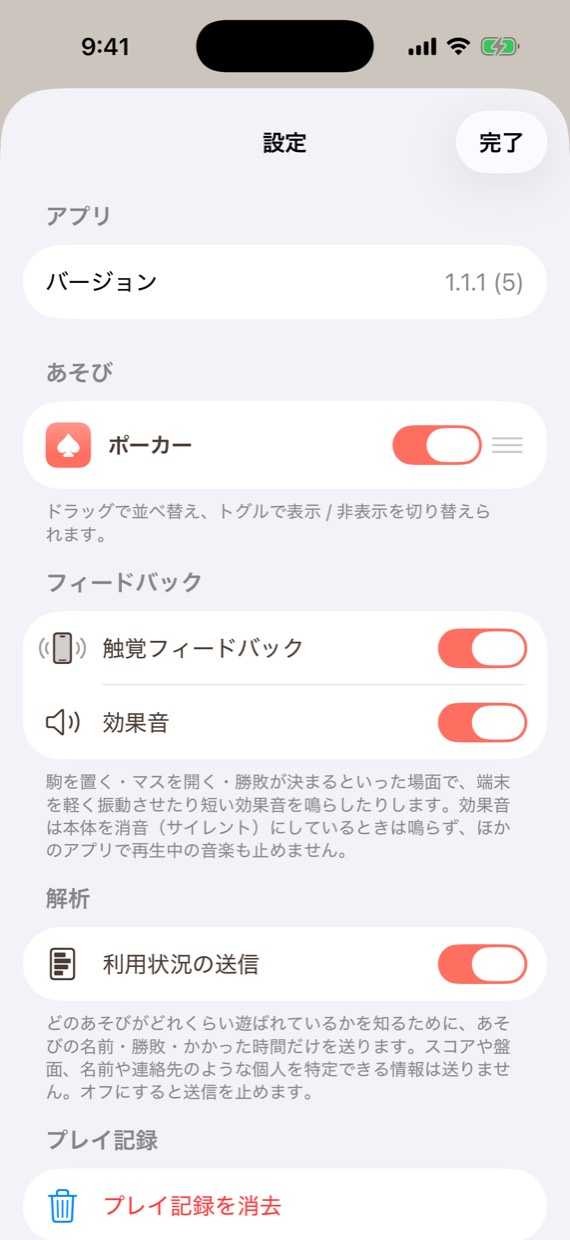
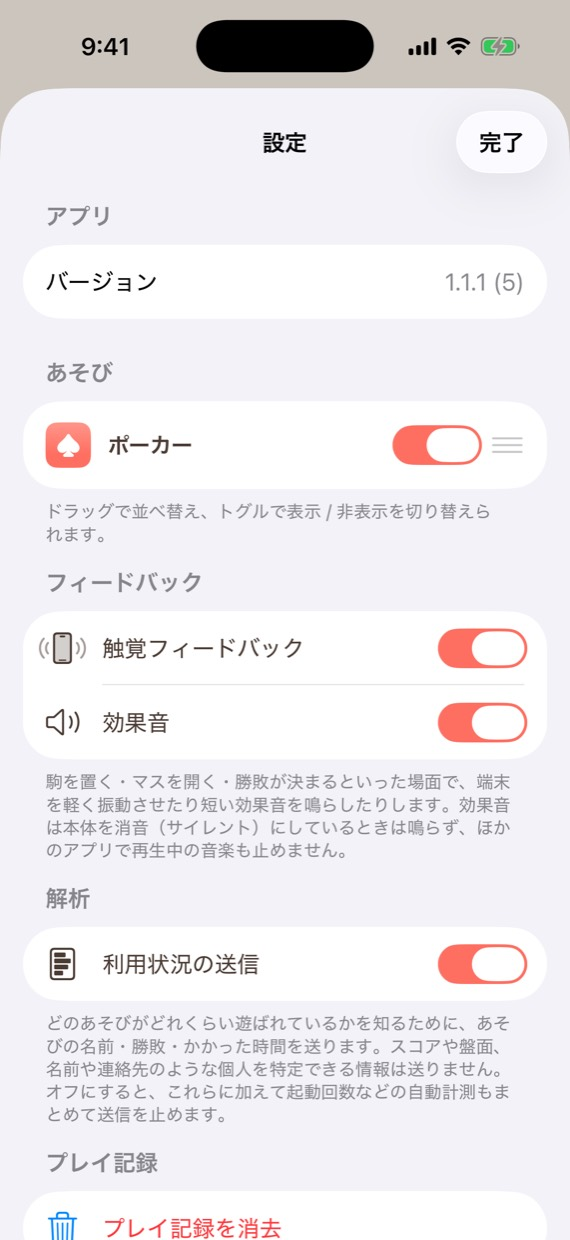
fix(analytics): 設定オフで自動収集も止め、遊びかけの再開でも game_end を送る（PR #162 指摘）
CodeRabbit の Major 指摘2件への対応。

1. Security & Privacy: `GatedAnalyticsService` は game_start / game_end しか止められず、
   `FirebaseApp.configure()` が有効にする自動収集イベント（session_start 等）は
   設定をオフにしても送られ続けていた。設定画面の「オフにすると送信を止めます」と
   食い違うため、`Analytics.setAnalyticsCollectionEnabled` で SDK 全体の収集状態を
   トグルと同じ値へ揃える（起動直後と切り替え時）。撮影モードも止める。
   説明文も「自動計測もまとめて止める」と実態に合わせた。
2. Data Integrity: `leaveGame` が進行中のプレイまで捨てていたため、遊びかけでハブに
   戻り「続きから」で再開して終局すると（再開では game_start を数えないため）
   game_end が送れず、遊び切ったプレイが「始めたのに終わっていない」ぶんとして
   数えられていた。捨てるのは終局済みのプレイだけにする。

検証: swift test 382件緑（+3件は離脱→再開→終局の経路）/ 署名なしビルド成功 /
シミュレータの実機ログで `Analytics collection enabled` → 直後に `disabled` を確認。

Changed region(s): [[0.0895, 0.8274, 0.8947, 1.0]]

diff --git a/Packages/GameKit/Tests/AnalyticsTests/AnalyticsTests.swift b/Packages/GameKit/Tests/AnalyticsTests/AnalyticsTests.swift
@@ -193,7 +193,7 @@ struct GameAnalyticsTests {
         #expect(spy.events.isEmpty)
     }
 
-    @Test("画面を離れると次に開いたときが新しい1プレイになる")
+    @Test("終局したあと画面を離れると、次に開いたときが新しい1プレイになる")
     func leavingGameAllowsNextPlay() {
         let (analytics, spy) = makeAnalytics()
         analytics.startPlay(gameID: "2048")
@@ -202,6 +202,34 @@ struct GameAnalyticsTests {
         analytics.startPlay(gameID: "2048")
         #expect(spy.starts.count == 2)
         #expect(spy.ends.count == 1)
+    }
+
+    @Test("遊びかけで画面を離れても進行中の扱いは続き、戻って終局すれば game_end が出る")
+    func leavingMidPlayKeepsItInFlight() {
+        let clock = TestClock()
+        let (analytics, spy) = makeAnalytics(clock: clock)
+        analytics.startPlay(gameID: "2048")
+        clock.advance(40)
+        analytics.leaveGame(gameID: "2048")   // ハブへ戻った（まだ遊びかけ）
+        clock.advance(20)
+        analytics.startPlay(gameID: "2048")   // 「続きから」で再開 → 数え直さない
+        clock.advance(30)
+        analytics.finishPlay(gameID: "2048", outcome: .loss)
+
+        #expect(spy.starts.count == 1, "再開で game_start は増えない")
+        #expect(spy.ends.count == 1, "遊び切ったので game_end は出る")
+        #expect(spy.ends.first?.durationSec == 90, "経過秒は最初の開始からの通算")
+    }
+
+    @Test("遊びかけで離れたあと「新しいゲーム」を選べば次の1プレイとして数える")
+    func leavingMidPlayThenRestart() {
+        let (analytics, spy) = makeAnalytics()
+        analytics.startPlay(gameID: "2048")
+        analytics.leaveGame(gameID: "2048")
+        analytics.restartPlay(gameID: "2048")
+        analytics.finishPlay(gameID: "2048", outcome: .loss)
+        #expect(spy.starts.count == 2, "遊びかけの1回 + 新しいゲームの1回")
+        #expect(spy.ends.count == 1, "終局したのは後者だけ")
     }
 
     @Test("ゲームごとに独立して数える")
@@ -315,6 +343,32 @@ struct AnalyticsDoubleFireTests {
         _ = Game2048Model(services: resumed)
         _ = Game2048Model(services: resumed)
         #expect(spyResumed.events.isEmpty, "続きからは新しいプレイではないので何も送らない")
+    }
+
+    @Test("遊びかけでハブに戻り、続きから再開して終局すると game_end が出る（実際の Model 経路）")
+    func leaveThenResumeThenFinishSendsEnd() {
+        let snapshots = MemorySnapshotStore()
+        let (services, spy) = makeServices(snapshots: snapshots)
+
+        let first = Game2048Model(services: services)
+        first.move(.left)
+        first.move(.up)
+        #expect(spy.starts(of: "2048") == 1)
+
+        // ハブへ戻る（`HubView` が path の変化で呼ぶ経路）。
+        services.gameDidLeave(gameID: "2048")
+
+        // 「続きから」で開き直して終局まで遊ぶ。
+        let resumed = Game2048Model(services: services)
+        outer: for _ in 0..<3000 {
+            for direction in Direction.allCases {
+                resumed.move(direction)
+                if resumed.gameOver { break outer }
+            }
+        }
+        #expect(resumed.gameOver)
+        #expect(spy.starts(of: "2048") == 1, "再開で game_start は増えない")
+        #expect(spy.ends(of: "2048") == 1, "遊び切ったぶんが「始めたのに終わっていない」に落ちない")
     }
 
     @Test("バックグラウンド復帰の計時再開では何も送らない")

diff --git a/App/FirebaseAnalyticsService.swift b/App/FirebaseAnalyticsService.swift
@@ -12,6 +12,21 @@ struct FirebaseAnalyticsService: AnalyticsService {
         Analytics.logEvent(event.name, parameters: Self.parameters(event))
     }
 
+    /// SDK 全体の収集状態を切り替える。
+    ///
+    /// `GatedAnalyticsService` が止められるのは `game_start` / `game_end` の**明示イベントだけ**で、
+    /// `FirebaseApp.configure()` が有効にする自動収集イベント（`session_start` / `first_open` 等）は
+    /// 素通りしてしまう。設定の「利用状況の送信」をオフにしたときはそれも止める必要があるため、
+    /// SDK 側のスイッチもトグルと同じ値へ揃える（PR #162 の CodeRabbit 指摘）。
+    ///
+    /// - Note: この値は SDK 側でアプリのセッションをまたいで永続化され、`Info.plist` の
+    ///   `FIREBASE_ANALYTICS_COLLECTION_ENABLED` より優先される。そのため起動時に必ず
+    ///   こちらの設定値で上書きし、アプリの設定画面が唯一の正とする。
+    @MainActor
+    static func setCollectionEnabled(_ isEnabled: Bool) {
+        Analytics.setAnalyticsCollectionEnabled(isEnabled)
+    }
+
     /// `AnalyticsValue` を Firebase が受け取る型へ落とす。
     /// 変換の対象は文字列と整数の2種だけで、それ以外の型は `AnalyticsValue` に存在しない。
     private static func parameters(_ event: AnalyticsEvent) -> [String: Any] {

diff --git a/App/AppGameServices.swift b/App/AppGameServices.swift
@@ -40,6 +40,16 @@ enum AppEnvironment {
         allowedGameIDs: Set(registry.modules.map(\.id))
     )
 
+    /// 設定の「利用状況の送信」を **Firebase SDK 全体の収集状態**へ反映する。
+    ///
+    /// `GatedAnalyticsService` は `game_start` / `game_end` しか止められないため、これを呼ばないと
+    /// オフにしても自動収集イベント（`session_start` 等）が送られ続け、設定画面の説明と食い違う。
+    /// 起動直後（`FirebaseApp.configure()` の後）と、トグルを切り替えたときに呼ぶ。
+    static func applyAnalyticsCollectionState() {
+        // 撮影モードは広告と同じ理由で送信そのものを止める（動作確認の操作を実データに混ぜない）。
+        FirebaseAnalyticsService.setCollectionEnabled(!isScreenshotMode && settings.analyticsEnabled)
+    }
+
     /// プレイ履歴（回数カウンタ・遊んだゲームの ID・ゲーム別の記録。盤面や棋譜は持たない）。
     static let playLog = PlayLog()
 

diff --git a/Packages/GameKit/Sources/Core/Analytics.swift b/Packages/GameKit/Sources/Core/Analytics.swift
@@ -140,7 +140,13 @@ public final class GameAnalytics {
 
     /// ゲーム画面から離れたときに呼ぶ（ハブが1か所で呼ぶ）。
     /// 次に同じゲームを開いたときを新しいプレイとして数え直せるようにする。
+    ///
+    /// - Important: **進行中のプレイは残す**。遊びかけでハブに戻り「続きから」で再開して終局する
+    ///   のはよくある流れで、ここで状態を捨てると（再開では `game_start` を数えないため）
+    ///   `game_end` が送れず、実際は遊び切ったプレイが「始めたのに終わっていない」ぶんとして
+    ///   数えられてしまう（PR #162 の CodeRabbit 指摘）。捨てるのは終局済みのプレイだけ。
     public func leaveGame(gameID: String) {
+        guard case .finished = plays[gameID] else { return }
         plays[gameID] = nil
     }
 

diff --git a/App/SettingsView.swift b/App/SettingsView.swift
@@ -79,7 +79,7 @@ struct SettingsView: View {
                 } header: {
                     Text("解析")
                 } footer: {
-                    Text("どのあそびがどれくらい遊ばれているかを知るために、あそびの名前・勝敗・かかった時間だけを送ります。スコアや盤面、名前や連絡先のような個人を特定できる情報は送りません。オフにすると送信を止めます。")
+                    Text("どのあそびがどれくらい遊ばれているかを知るために、あそびの名前・勝敗・かかった時間を送ります。スコアや盤面、名前や連絡先のような個人を特定できる情報は送りません。オフにすると、これらに加えて起動回数などの自動計測もまとめて送信を止めます。")
                 }
 
                 // MARK: プレイ記録

diff --git a/App/GameSettings.swift b/App/GameSettings.swift
@@ -15,9 +15,14 @@ final class GameSettings {
     var soundEnabled: Bool {
         didSet { Self.sound.isEnabled = soundEnabled }
     }
-    /// 解析イベント送信のオン / オフ（#158）。既定はオン。オフのあいだ `logEvent` は呼ばれない。
+    /// 解析送信のオン / オフ（#158）。既定はオン。
+    /// オフのあいだ `logEvent` は呼ばれず、Firebase の自動収集イベントも止まる。
     var analyticsEnabled: Bool {
-        didSet { Self.analytics.isEnabled = analyticsEnabled }
+        didSet {
+            Self.analytics.isEnabled = analyticsEnabled
+            // 明示イベントだけでなく SDK 全体の収集を切り替える（PR #162 の CodeRabbit 指摘）。
+            AppEnvironment.applyAnalyticsCollectionState()
+        }
     }
 
     private static let orderKey    = "gameOrder_v1"

diff --git a/App/GameCollectionApp.swift b/App/GameCollectionApp.swift
@@ -9,8 +9,11 @@ struct GameCollectionApp: App {
     @State private var adsInitialized = false
 
     init() {
-        // Firebase Analytics / Crashlytics の初期化（デフォルトの自動収集イベントのみ）
+        // Firebase Analytics / Crashlytics の初期化
         FirebaseApp.configure()
+        // 設定の「利用状況の送信」を SDK 全体の収集状態へ反映する（#158）。
+        // configure() は自動収集イベントも有効にするため、オフのときはここで止める。
+        AppEnvironment.applyAnalyticsCollectionState()
     }
 
     var body: some Scene {

diff --git a/docs/ui-review/158/README.md b/docs/ui-review/158/README.md
@@ -9,6 +9,8 @@
 
 - 既存の「フィードバック」と同じ体裁のトグル1つ（既定はオン）。
 - 説明文で**送るもの（あそびの名前・勝敗・かかった時間）と送らないもの（スコア・盤面・個人を特定できる情報）**を明示している。
+- オフにすると `game_start` / `game_end` だけでなく Firebase の自動計測（起動回数など）も止まるため、
+  そのことも説明文に書いてある（PR #162 の CodeRabbit 指摘で追加）。
 - 順序は アプリ → あそび → フィードバック → **解析** → プレイ記録 → 規約 → その他。
   「プレイ記録」（端末内に保存・送信しない）と「解析」（送信する）が隣に並び、
   保存と送信の区別が読み取れる位置にした。
